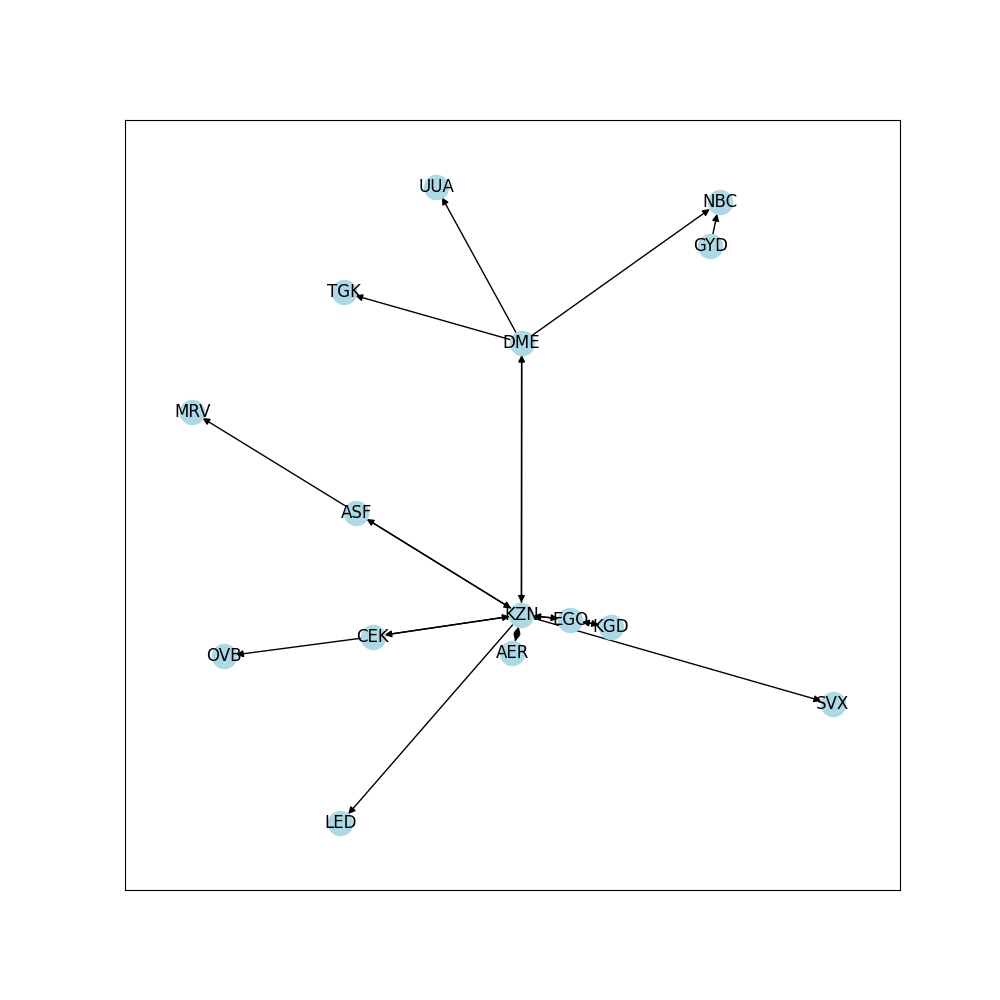
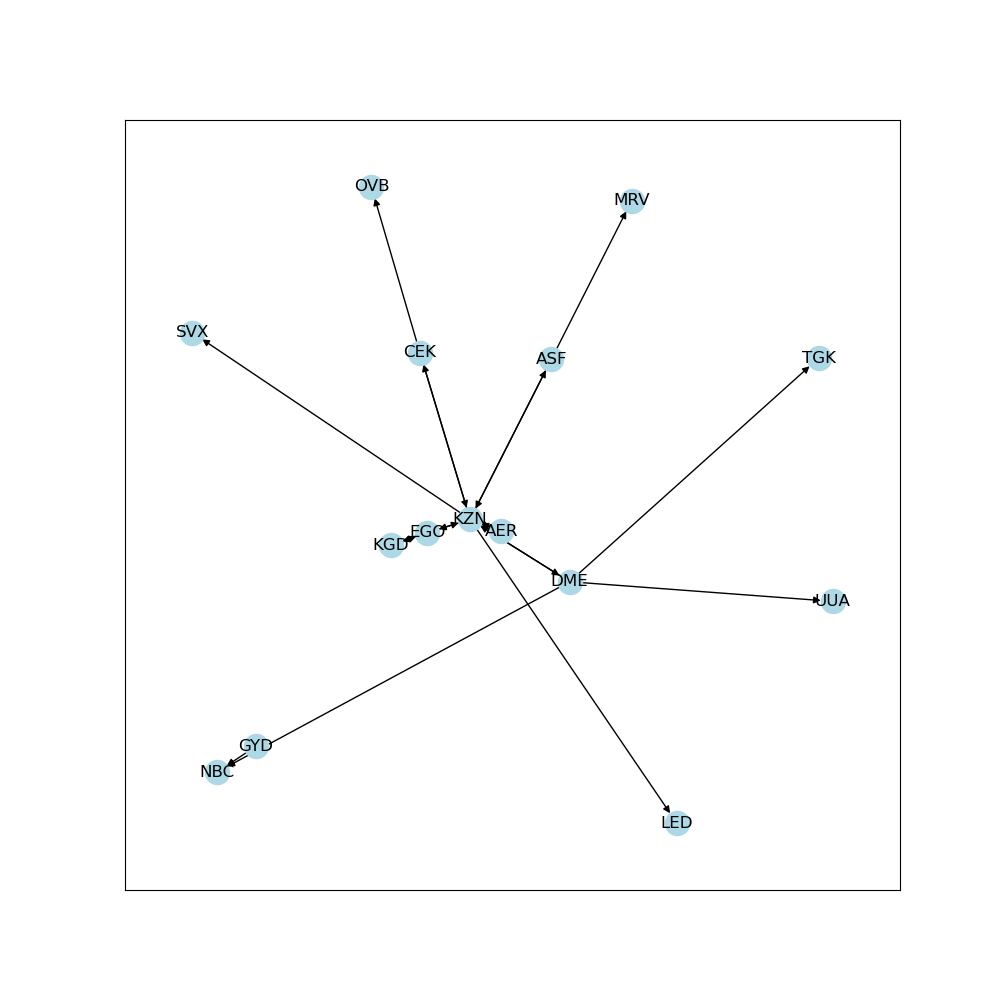
working on pagerank

diff --git a/src/pagerank.py b/src/pagerank.py
@@ -2,6 +2,7 @@
 # then implement pagerank algorithm 
 import networkx as nx
 import matplotlib.pyplot as plt
+import math
 
 # remove whitespaces, and newlines
 def format_string(a,b):
@@ -13,24 +14,45 @@ def main():
 
     G = nx.DiGraph() # create a directed graph 
     testG = nx.DiGraph()
+    pagerank = {}
+    nodes = set()
+
     count = 0
     with open("source-dest.txt", encoding='utf-8') as f:
         for line in f.readlines():
             line = line.split('-')
             l = format_string(line[0], line[1])
             G.add_edges_from([(l[0],l[1])])
+            nodes.add(l[0])
+            nodes.add(l[1])
 
             # for testing
             if count < 20:
                 testG.add_edges_from([(l[0],l[1])])
             count += 1
 
+    print("Total number of nodes: ", int(G.number_of_nodes())) 
+    print("Total number of edges: ", int(G.number_of_edges())) 
+
+    #print(testG.out_degree('DME'))
+    print(len(nodes))
+
     plt.figure(figsize=(10,10))
     nx.draw_networkx(testG, with_labels=True, node_color='lightblue')
     plt.savefig("testGraph.png")
 
-    print("Total number of nodes: ", int(G.number_of_nodes())) 
-    print("Total number of edges: ", int(G.number_of_edges())) 
+
+    espilon = 0.15
+    avg_error = 0.00001
+    n = len(nodes)
+    num_iter = int(math.log(avg_error) / math.log(1 - espilon))
+
+    # initialize pagerank
+    for node in nodes:
+        pagerank[node] = 1.0 / n
+
+    print(pagerank)
+
     return 
 
 if __name__ == "__main__":
